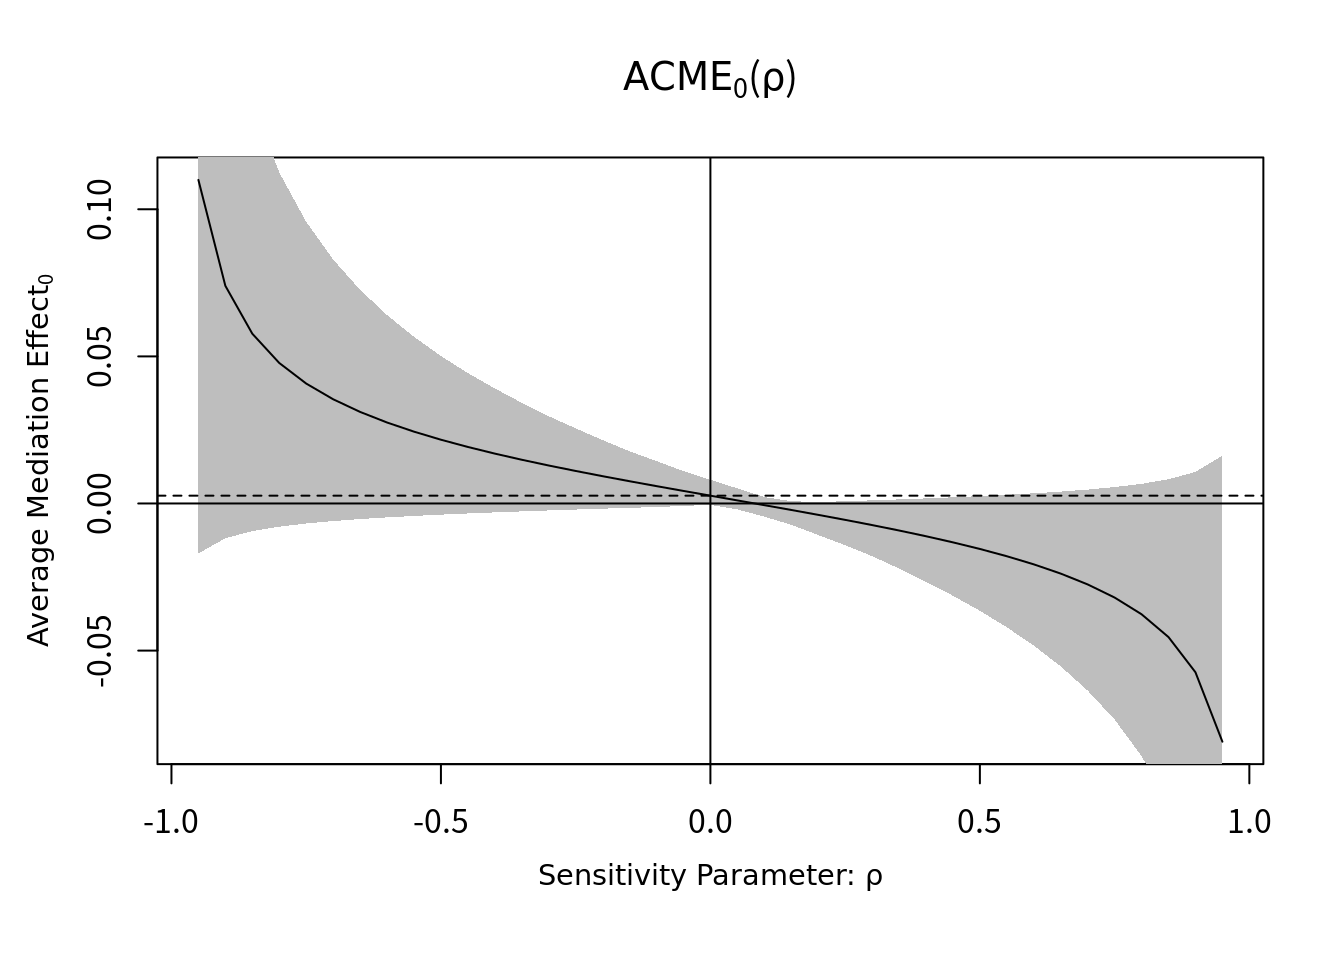
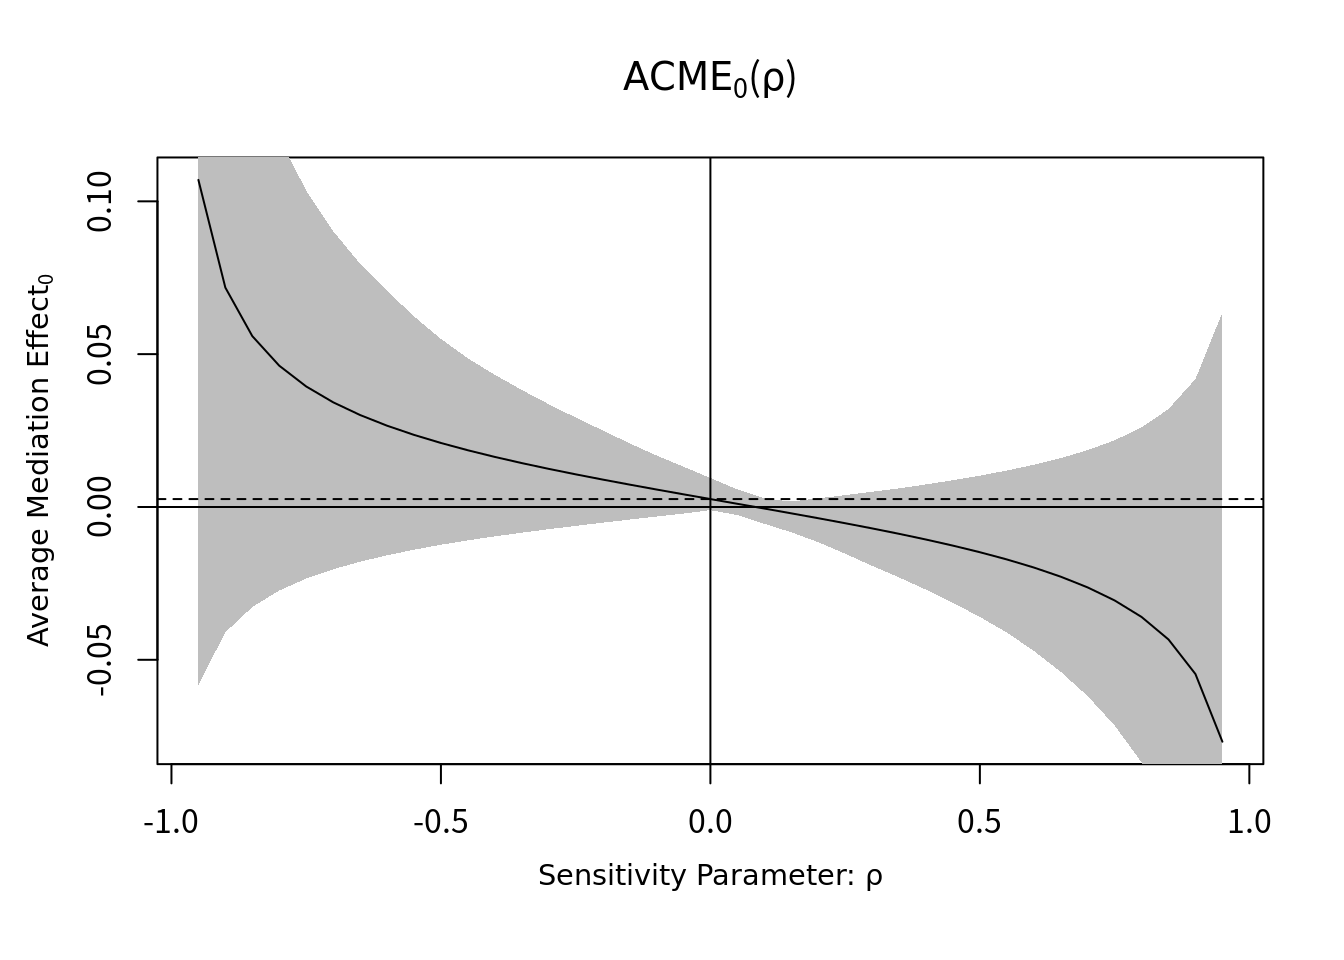
日付追加

diff --git a/content/post/2021-02-25 Rによる因果媒介分析2/Rによる因果媒介分析2.html b/content/post/2021-02-25 Rによる因果媒介分析2/Rによる因果媒介分析2.html
@@ -1,6 +1,6 @@
 ---
 title: "Rによる因果媒介分析2 Non/Semiparametricな方法"
-date: 2021-02-25
+date: 2021-04-20
 categories:
 - 因果媒介分析
 - R
@@ -53,17 +53,19 @@ data(&quot;jobs&quot;)</code></pre>
 ## 
 ## Nonparametric Bootstrap Confidence Intervals with the Percentile Method
 ## 
-##                          Estimate 95% CI Lower 95% CI Upper p-value
-## ACME (control)            0.00266     -0.00127         0.01    0.16
-## ACME (treated)            0.00286     -0.00138         0.01    0.16
-## ADE (control)             0.05407     -0.01279         0.11    0.14
-## ADE (treated)             0.05427     -0.01283         0.11    0.14
-## Total Effect              0.05693     -0.00948         0.11    0.10
-## Prop. Mediated (control)  0.04665     -0.20126         0.59    0.26
-## Prop. Mediated (treated)  0.05016     -0.19781         0.60    0.26
-## ACME (average)            0.00276     -0.00132         0.01    0.16
-## ADE (average)             0.05417     -0.01281         0.11    0.14
-## Prop. Mediated (average)  0.04841     -0.19954         0.59    0.26
+##                           Estimate 95% CI Lower 95% CI Upper p-value  
+## ACME (control)            0.002653    -0.000687         0.01    0.20  
+## ACME (treated)            0.002854    -0.000717         0.01    0.20  
+## ADE (control)             0.054033    -0.006119         0.12    0.10 .
+## ADE (treated)             0.054234    -0.006117         0.12    0.10 .
+## Total Effect              0.056887     0.000935         0.12    0.06 .
+## Prop. Mediated (control)  0.046638    -0.017481         0.60    0.18  
+## Prop. Mediated (treated)  0.050175    -0.018535         0.60    0.18  
+## ACME (average)            0.002754    -0.000702         0.01    0.20  
+## ADE (average)             0.054134    -0.006118         0.12    0.10 .
+## Prop. Mediated (average)  0.048406    -0.018008         0.60    0.18  
+## ---
+## Signif. codes:  0 &#39;***&#39; 0.001 &#39;**&#39; 0.01 &#39;*&#39; 0.05 &#39;.&#39; 0.1 &#39; &#39; 1
 ## 
 ## Sample Size Used: 899 
 ## 
@@ -88,17 +90,19 @@ data(&quot;jobs&quot;)</code></pre>
 ## 
 ## Nonparametric Bootstrap Confidence Intervals with the Percentile Method
 ## 
-##                           Estimate 95% CI Lower 95% CI Upper p-value
-## ACME (control)            0.003524    -0.000979         0.01    0.16
-## ACME (treated)            0.003750    -0.001084         0.01    0.16
-## ADE (control)             0.052252    -0.010558         0.10    0.18
-## ADE (treated)             0.052478    -0.010576         0.10    0.18
-## Total Effect              0.056002    -0.008608         0.10    0.12
-## Prop. Mediated (control)  0.062932    -0.183959         0.84    0.20
-## Prop. Mediated (treated)  0.066956    -0.183409         0.84    0.20
-## ACME (average)            0.003637    -0.001032         0.01    0.16
-## ADE (average)             0.052365    -0.010567         0.10    0.18
-## Prop. Mediated (average)  0.064944    -0.183684         0.84    0.20
+##                           Estimate 95% CI Lower 95% CI Upper p-value  
+## ACME (control)            0.002988    -0.001265         0.01    0.16  
+## ACME (treated)            0.003191    -0.001355         0.01    0.18  
+## ADE (control)             0.052288    -0.000554         0.12    0.06 .
+## ADE (treated)             0.052490    -0.000554         0.12    0.06 .
+## Total Effect              0.055479     0.002509         0.13    0.06 .
+## Prop. Mediated (control)  0.053863    -0.245157         0.32    0.22  
+## Prop. Mediated (treated)  0.057513    -0.242586         0.32    0.24  
+## ACME (average)            0.003089    -0.001310         0.01    0.16  
+## ADE (average)             0.052389    -0.000554         0.12    0.06 .
+## Prop. Mediated (average)  0.055688    -0.243872         0.32    0.22  
+## ---
+## Signif. codes:  0 &#39;***&#39; 0.001 &#39;**&#39; 0.01 &#39;*&#39; 0.05 &#39;.&#39; 0.1 &#39; &#39; 1
 ## 
 ## Sample Size Used: 899 
 ## 
@@ -121,16 +125,16 @@ data(&quot;jobs&quot;)</code></pre>
 ## Nonparametric Bootstrap Confidence Intervals with the Percentile Method
 ## 
 ##                           Estimate 95% CI Lower 95% CI Upper p-value  
-## ACME (control)            0.005315    -0.000813         0.01    0.14  
-## ACME (treated)            0.005720    -0.000869         0.01    0.14  
-## ADE (control)             0.051197    -0.007638         0.12    0.10 .
-## ADE (treated)             0.051602    -0.007702         0.12    0.10 .
-## Total Effect              0.056917    -0.003464         0.13    0.08 .
-## Prop. Mediated (control)  0.093384    -0.273474         0.47    0.22  
-## Prop. Mediated (treated)  0.100497    -0.263418         0.48    0.22  
-## ACME (average)            0.005518    -0.000841         0.01    0.14  
-## ADE (average)             0.051399    -0.007670         0.12    0.10 .
-## Prop. Mediated (average)  0.096940    -0.268944         0.47    0.22  
+## ACME (control)            0.002218    -0.000890         0.01    0.10 .
+## ACME (treated)            0.002444    -0.000994         0.01    0.10 .
+## ADE (control)             0.051281    -0.007224         0.11    0.10 .
+## ADE (treated)             0.051508    -0.007273         0.11    0.10 .
+## Total Effect              0.053726    -0.003641         0.11    0.06 .
+## Prop. Mediated (control)  0.041287    -0.035312         0.31    0.16  
+## Prop. Mediated (treated)  0.045496    -0.036159         0.32    0.16  
+## ACME (average)            0.002331    -0.000942         0.01    0.10 .
+## ADE (average)             0.051394    -0.007249         0.11    0.10 .
+## Prop. Mediated (average)  0.043392    -0.035735         0.31    0.16  
 ## ---
 ## Signif. codes:  0 &#39;***&#39; 0.001 &#39;**&#39; 0.01 &#39;*&#39; 0.05 &#39;.&#39; 0.1 &#39; &#39; 1
 ## 
